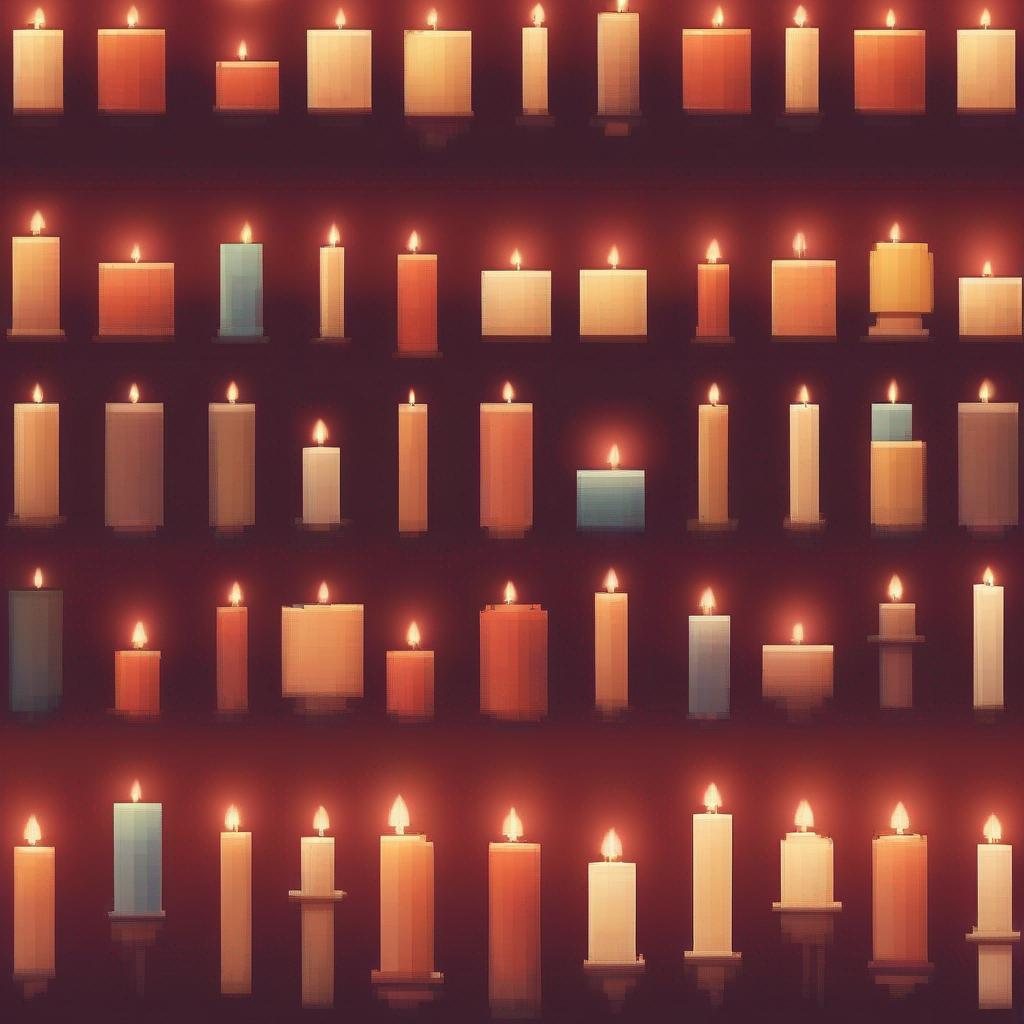
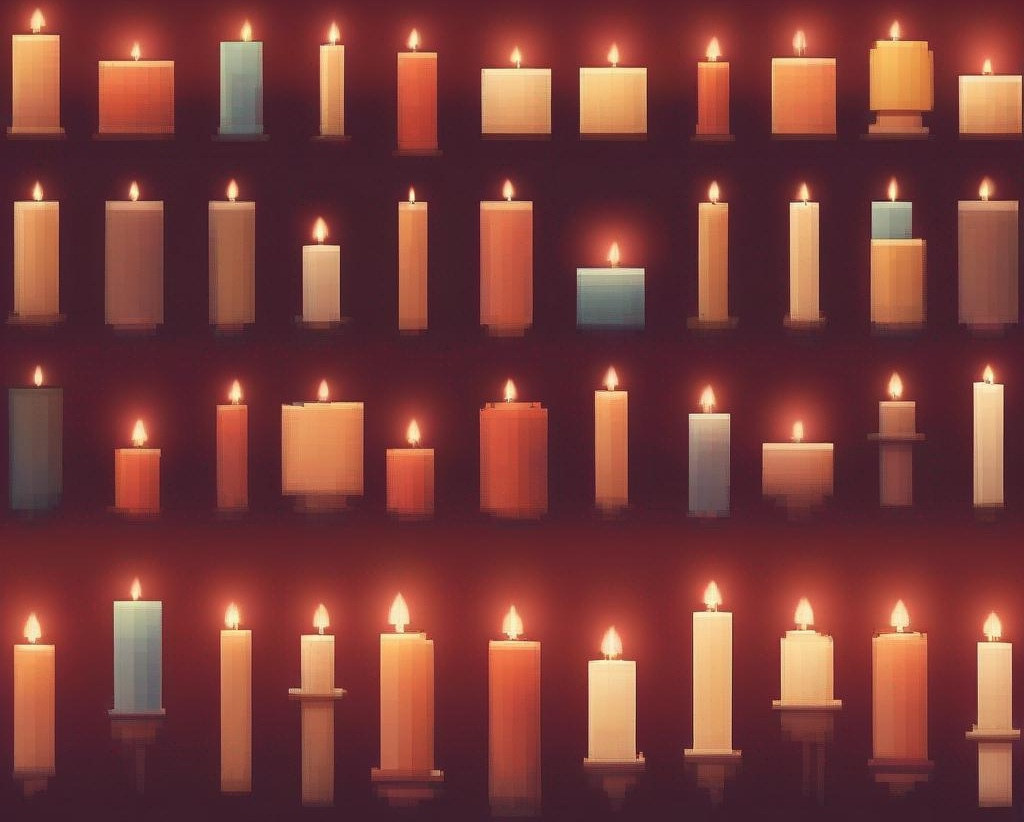
New production push

diff --git a/about/list/index.html b/about/list/index.html
@@ -1,12 +1,12 @@
 <!DOCTYPE html>
 <html lang="en-us">
-  <head>
+  <head><script src="/livereload.js?mindelay=10&amp;v=2&amp;port=1313&amp;path=livereload" data-no-instant defer></script>
     <meta charset="utf-8">
     <meta http-equiv="X-UA-Compatible" content="IE=edge,chrome=1">
     
     <title>About | Mathew Titus</title>
     <meta name="viewport" content="width=device-width,minimum-scale=1">
-    <meta name="description" content="Sunstrand Technical Consulting.">
+    <meta name="description" content="See below for my CV and other interests.">
     <meta name="generator" content="Hugo 0.124.1">
     
     
@@ -54,23 +54,23 @@
     
 
     
-    
-      <link href="/about/index.xml" rel="alternate" type="application/rss+xml" title="Mathew Titus" />
-      <link href="/about/index.xml" rel="feed" type="application/rss+xml" title="Mathew Titus" />
-      
-    
 
     
       <link rel="canonical" href="https://sunstrand.tech/">
     
 
     <meta property="og:title" content="About" />
-<meta property="og:description" content="Sunstrand Technical Consulting." />
-<meta property="og:type" content="website" />
-<meta property="og:url" content="https://sunstrand.tech/about/" />
+<meta property="og:description" content="See below for my CV and other interests." />
+<meta property="og:type" content="article" />
+<meta property="og:url" content="http://localhost:1313/about/list/" /><meta property="article:section" content="about" />
+
+
 <meta itemprop="name" content="About">
-<meta itemprop="description" content="Sunstrand Technical Consulting."><meta name="twitter:card" content="summary"/><meta name="twitter:title" content="About"/>
-<meta name="twitter:description" content="Sunstrand Technical Consulting."/>
+<meta itemprop="description" content="See below for my CV and other interests.">
+
+<meta itemprop="wordCount" content="8">
+<meta itemprop="keywords" content="" /><meta name="twitter:card" content="summary"/><meta name="twitter:title" content="About"/>
+<meta name="twitter:description" content="See below for my CV and other interests."/>
 
 	
   </head>
@@ -79,15 +79,12 @@
   <body class="ma0 avenir">
 
     
+   
+  
 
-  
-  
-  
-  
-  
-  <header class="cover bg-top" style="background-image: url('https://sunstrand.tech/images/forest.jpg'); background-position: center;">
+  <header>
     
-    <div>
+    <div class="">
       <nav class="pv3 ph3 ph4-ns up" role="navigation">
   <div class="flex-l justify-between items-center center">
     <a href="/" class="f3 fw2 hover-white no-underline white-90 dib">
@@ -166,111 +163,83 @@
   </div>
 </nav>
 
-      <div class="tc-l pv6 ph3 ph4-ns">
-        
-          <div class="f2 f1-l fw2 white-90 mb0 lh-title">About</div>
-          
-        
-      </div>
     </div>
   </header>
+
 
 
     
     <main class="pb5 up" role="main">
       
-<div class="flex-l mt2 mw8 center">
-  <article class="mw6 center br3 pa3 pa4-ns mv3 ba b--black-10">
-    <div class="tc pa3">
-      <img src="/images/profile.jpg" class="br4 dib ba b--black-05 pa2" title="Photo of Mat">
-      <h1 class="f3 mb2">Mathew Titus</h1>
-      <h2 class="f5 fw4 gray mt0">Pictured here with Alison (wife) and Charles (son)</h2>
-    </div>
-    <section class="cf ph3 ph5-l pv3 pv4-l f4 tc-l center measure-wide lh-copy mid-gray">
-      <p>See these pages for my <a href="/about/cv/">CV</a> and other interests.</p>
-<p>I grew up in rural eastern Oregon, the second of three boys, sixteen miles outside of a town of about 2000 people. My father is a serial entrepreneur - ranchhand, firefighter, pastor, etc - while my mother has held the same job (though the hats have changed) for nearly 30 years.</p>
-<p>My wife and I seem to be echoing this pattern, with her narrow focus on financial advising and my continuous academic migrations: physics, to mathematics, to power grids, to complex systems science, to ecology and water systems. As one might expect, the details are full of meaningful deviations.</p>
-<p>I recently had a chance to fall some trees for firewood with my father. I would bet that he has run a saw at least once a year for the past thirty years; it&rsquo;s an art form he has practiced for decades, and there&rsquo;s joy and seriousness in the craft for him.</p>
-<p>Analyzing systems is my craft.</p>
+  
+  <article class="flex-l flex-wrap justify-between mw8 center ph3">
+    <header class="mt4 w-100">
+      <aside class="instapaper_ignoref b helvetica tracked ttu">
+          
+        Abouts
+      </aside>
+      
 
-    </section>
-  </article>
-  <article class="pa3 pa4-ns nested-copy-line-height">
+
+
+
+
+
+
+
+
+
+  <div id="sharing" class="mt3 ananke-socials">
     
-    <aside class="flex-column justify-around mt5">
       
-        <div class="relative w-100 mb4">
-          
-<article class="bb b--black-10">
-  <div class="db pv4 ph3 ph0-l no-underline dark-gray">
-    <div class="flex flex-column flex-row-ns">
-      
-          
-        <div class="pr3-ns mb4 mb0-ns w-100 w-40-ns">
-          <a href="/about/cv/" class="db grow">
-            <img src="https://sunstrand.tech/images/chalkboard.jpg" class="img" alt="image from Curriculum Vitae">
-          </a>
-        </div>
-      
-      <div class="blah w-100 w-60-ns pl3-ns">
-        <h1 class="f3 fw1 athelas mt0 lh-title">
-          <a href="/about/cv/" class="color-inherit dim link">
-            Curriculum Vitae
-            </a>
-        </h1>
-        <div class="f6 f5-l lh-copy nested-copy-line-height nested-links">
-          My work and publications
-        </div>
-          <a href="/about/cv/" class="ba b--moon-gray bg-light-gray br2 color-inherit dib f7 hover-bg-moon-gray link mt2 ph2 pv1">View CV</a>
+      <a href="https://www.linkedin.com/shareArticle?mini=true&amp;url=http://localhost:1313/about/list/&amp;title=About" class="ananke-social-link linkedin no-underline" aria-label="share on LinkedIn">
         
+        <span class="icon"> <svg style="enable-background:new 0 0 65 65;" version="1.1" viewBox="0 0 65 65"  xml:space="preserve" xmlns="http://www.w3.org/2000/svg" xmlns:xlink="http://www.w3.org/1999/xlink">
+  <path d="M50.837,48.137V36.425c0-6.275-3.35-9.195-7.816-9.195  c-3.604,0-5.219,1.983-6.119,3.374V27.71h-6.79c0.09,1.917,0,20.427,0,20.427h6.79V36.729c0-0.609,0.044-1.219,0.224-1.655  c0.49-1.22,1.607-2.483,3.482-2.483c2.458,0,3.44,1.873,3.44,4.618v10.929H50.837z M22.959,24.922c2.367,0,3.842-1.57,3.842-3.531  c-0.044-2.003-1.475-3.528-3.797-3.528s-3.841,1.524-3.841,3.528c0,1.961,1.474,3.531,3.753,3.531H22.959z M34,64  C17.432,64,4,50.568,4,34C4,17.431,17.432,4,34,4s30,13.431,30,30C64,50.568,50.568,64,34,64z M26.354,48.137V27.71h-6.789v20.427  H26.354z" style="fill-rule:evenodd;clip-rule:evenodd;"/>
+</svg>
+</span>
+        
+      </a>
+    
+  </div>
+
+
+      <h1 class="f1 athelas mt3 mb1">About</h1>
+      
+      <p class="tracked">
+        By <strong>Mathew Titus</strong>
+      </p>
+      
+      
+      
+
+      
+      
+    </header>
+    <div class="nested-copy-line-height lh-copy serif f4 nested-links mid-gray pr4-l w-two-thirds-l"><p>See below for my <a href="/about/cv/">CV</a> and other interests.</p>
+<ul class="pa0">
+  
+</ul>
+<div class="mt6 instapaper_ignoref">
+      
+      
       </div>
     </div>
-  </div>
-</article>
 
-        </div>
-      
-        <div class="relative w-100 mb4">
-          
-<article class="bb b--black-10">
-  <div class="db pv4 ph3 ph0-l no-underline dark-gray">
-    <div class="flex flex-column flex-row-ns">
-      
-          
-        <div class="pr3-ns mb4 mb0-ns w-100 w-40-ns">
-          <a href="/about/research/" class="db grow">
-            <img src="https://sunstrand.tech/images/candles.jpeg" class="img" alt="image from Research Interests">
-          </a>
-        </div>
-      
-      <div class="blah w-100 w-60-ns pl3-ns">
-        <h1 class="f3 fw1 athelas mt0 lh-title">
-          <a href="/about/research/" class="color-inherit dim link">
-            Research Interests
-            </a>
-        </h1>
-        <div class="f6 f5-l lh-copy nested-copy-line-height nested-links">
-          Under Construction
-        </div>
-          <a href="/about/research/" class="ba b--moon-gray bg-light-gray br2 color-inherit dib f7 hover-bg-moon-gray link mt2 ph2 pv1">Coming Soon</a>
-        
-      </div>
-    </div>
-  </div>
-</article>
+    <aside class="w-30-l mt6-l">
 
-        </div>
-      
-    </aside>
-    
+
+
+
+</aside>
+
   </article>
-</div>
 
     </main>
     
 <footer class="bottom-0 w-100 pa3 up" role="contentinfo" style="position: fixed; bottom: 0px">
   <div class="flex justify-between">
-  <a class="f4 fw4 hover-white no-underline dn dib-ns pv2 ph3" href="https://sunstrand.tech/" >
+  <a class="f4 fw4 hover-white no-underline dn dib-ns pv2 ph3" href="http://localhost:1313/" >
     &copy;  Mathew Titus 2024 
   </a>
     <div>
@@ -329,7 +298,7 @@
 
 <script>
   let theme = localStorage.getItem("theme") || "light";
-</script><script src="https://sunstrand.tech/theme-toggle.js"></script>
+</script><script src="http://localhost:1313/theme-toggle.js"></script>
 
 <script src="/js/banner/noise.min.js"></script>
 <script src="/js/banner/util.js"></script>

diff --git a/consulting/hab-xai/index.html b/consulting/hab-xai/index.html
@@ -61,7 +61,7 @@
 <meta itemprop="name" content="Explainable AI for Algae Blooms">
 <meta itemprop="description" content="Introduction Perhaps the largest barrier to implementing AI technologies in the utility management space is justifying the use of results that do not originate with human managers. Accountability to the public is fundamental for water providers, meaning they are subject to a great deal of regulation and scrutiny - and rightly so. Because of this, they cannot outsource their decision making around water safety to inscrutable and novel machine learning models.">
 
-<meta itemprop="wordCount" content="1273">
+<meta itemprop="wordCount" content="1271">
 <meta itemprop="keywords" content="" /><meta name="twitter:card" content="summary"/><meta name="twitter:title" content="Explainable AI for Algae Blooms"/>
 <meta name="twitter:description" content="Introduction Perhaps the largest barrier to implementing AI technologies in the utility management space is justifying the use of results that do not originate with human managers. Accountability to the public is fundamental for water providers, meaning they are subject to a great deal of regulation and scrutiny - and rightly so. Because of this, they cannot outsource their decision making around water safety to inscrutable and novel machine learning models."/>
 
@@ -240,8 +240,8 @@
 <li>The point prediction could be replaced with the distribution of predictions, rather than a simple average. This would allow the operator to see how much consensus exists among the models, and more easily spot strong/weak constituents.</li>
 <li>The independent variables should be more easily navigated, and their set values should be more easily updated to allow the model to be incorporated into daily operations.</li>
 </ol>
-<h2 id="results">Results</h2>
-<p><em><strong>Incoming.</strong></em></p>
+<!-- raw HTML omitted -->
+<!-- raw HTML omitted -->
 <ul class="pa0">
   
 </ul>
@@ -258,7 +258,6 @@
     <li><a href="#introduction">Introduction</a></li>
     <li><a href="#the-proposal">The Proposal</a></li>
     <li><a href="#the-tool">The Tool</a></li>
-    <li><a href="#results">Results</a></li>
   </ul>
 </nav>
   </div>

diff --git a/about/cv/index.html b/about/cv/index.html
@@ -229,10 +229,10 @@
                 <div>
                   <i class="fa-solid fa-folder"></i>
                   <i class="fa-solid fa-folder-open hide"></i>
-                    Computational Science Entrepreneurship
+                    Scientific Consultant
                 </div>
                 <div class="flex-column">
-                  Jun 2017 - Present
+                  Jun 2017 - Present<br>Northwest Math<br>The Prediction Lab<br>ClearWater Analytica
                 </div>
               </div>
             </button>
@@ -243,7 +243,7 @@
                     Description
                   </div>
                   <div>
-                    I have worked as a cofounder with several partners, establishing consultancies that provide data analytic and data visualization services to municipalities, and providing research design and reporting for a number of grants. Our public funders have included DARPA and The Water Research Foundation.
+                    I have worked as a cofounder with several partners, establishing consultancies that provide data analytic and data visualization services to municipalities and utilities. We have also executed a number of research grants. I have filled all roles, performing project design, conducting research, and writing technical reports. Our public funders have included DARPA and The Water Research Foundation.
                   </div>
                 </div>
                 <div class="flex-column w-100-m w-40">

diff --git a/css/about.css b/css/about.css
@@ -1,7 +1,7 @@
 /** Fix link underlining & bluing */
 
 body.dark-mode main a {
-  color: whitesmoke;
+/*  color: whitesmoke;*/
 }
 
 /** CV */
@@ -51,15 +51,24 @@ body.dark-mode .cv-text {
   color: whitesmoke;
 }
 
-
-
 .prof-exp {
   list-style-type: none;
   list-style-position: outside;
 }
 
-body.dark-mode li, p > * {
+body.dark-mode li {
   color: whitesmoke;
 }
 
 
+/** Styling CV link in About _index.md body */
+
+body.dark-mode p > * {
+  text-decoration: none;
+  color: whitesmoke;
+}
+
+body:not(.dark-mode) p > * {
+  text-decoration: none;
+  color: black;
+}

diff --git a/index.html b/index.html
@@ -198,7 +198,6 @@
     background: transparent;
   }
 </style>
-
 <article class="cf ph3 ph5-l pv3 pv4-l f4 tc-l center measure-wide lh-copy mid-gray">
   <p><img src="/images/headshot3.jpg" alt="Mathew Titus, Ph.D."></p>
 <h3 id="mathew-titus-phd">Mathew Titus, PhD</h3>

diff --git a/page/2/index.html b/page/2/index.html
@@ -198,7 +198,6 @@
     background: transparent;
   }
 </style>
-
 <article class="cf ph3 ph5-l pv3 pv4-l f4 tc-l center measure-wide lh-copy mid-gray">
   <p><img src="/images/headshot3.jpg" alt="Mathew Titus, Ph.D."></p>
 <h3 id="mathew-titus-phd">Mathew Titus, PhD</h3>
